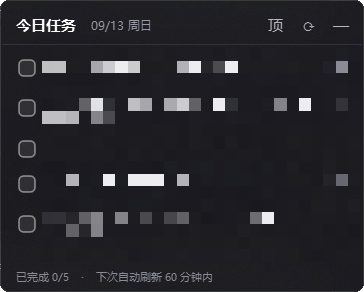
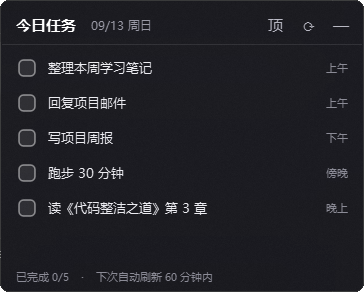
docs: 补齐全部效果图，改用演示数据拍摄
- widget.png / sync.gif：原先那张是打码版，观感差且看不出内容。
  改为在 Notion 临时测试库里放入五条假任务，让挂件的隔离实例指向它再拍，
  内容可读且不含任何真实日程。拍完已将该库归档。
- zorder-compare.png：左右对比「顶」浮在其他窗口之上 / 「桌」被其他窗口盖住。
- tray-menu.png：Qt 渲染的菜单控件，非屏幕截图。本机托盘图标默认收在隐藏
  溢出区，反复试探托盘区域会持续把桌面私有内容截入画面。
- README 去掉「截图待补」的提示，改为注明截图为演示数据。

diff --git a/docs/images/README.md b/docs/images/README.md
@@ -1,35 +1,33 @@
-# 截图待补清单
+# 效果图说明
 
-README 引用四张图。**`widget.png` 已就位**（任务文字做了打码），其余三张还没做。
+四张图都已就位。
 
-| 文件 | 状态 | 用在哪 | 要展示什么 |
-|---|---|---|---|
-| `widget.png` | ✅ 已有 | README 首图 | 挂件卡片本体。**注意：图中任务文字与右侧类型标签已做像素化打码**（原始截图含真实日程）。如果要换成未打码的版本，请先准备一批假任务再重拍 |
-| `sync.gif` | ❌ 待补 | 「效果」第 1 张 | 鼠标点某条未完成任务的勾选框 → 勾选框变绿底白勾、任务名变灰并被划掉 → 底部文字从「已完成 2/5」变成「已完成 3/5 · 已同步 Notion」。3-5 秒循环 |
-| `zorder-compare.png` | ❌ 待补 | 「效果」第 2 张 | **一张左右拼接的对比图**：左边按 Win+D 显示桌面后挂件仍浮在最上层（标题栏按钮显示「顶」）；右边挂件被文件资源管理器窗口压住看不见（按钮显示「桌」） |
-| `tray-menu.png` | ❌ 待补 | 「效果」第 3 张 | 右键点击任务栏通知区域里托盘的绿色对勾图标后弹出的菜单：`开机自启`（带勾）、`显示/隐藏`、`立即刷新`、`退出` |
+| 文件 | 尺寸 | 展示什么 |
+|---|---|---|
+| `widget.png` | 364×292 | 挂件本体。标题栏「今日任务 09/13 周日」+「顶/⟳/—」三个按钮，五条任务，底部状态栏 |
+| `sync.gif` | 364×292，3 帧 | 点勾选框 → 勾选框立刻变绿划线（乐观更新，此时底部还是「已完成 0/5」）→ 约 1 秒后底部变成「已完成 1/5 · 已同步 Notion」 |
+| `zorder-compare.png` | 1144×430 | 左右对比。「顶」模式挂件浮在「其他窗口」之上；「桌」模式被该窗口完全盖住 |
+| `tray-menu.png` | 221×294 | 托盘右键菜单：开机自启（带勾）、显示/隐藏、立即刷新、退出 |
 
-## 为什么需要这三张
+## 这些图怎么来的
 
-- `sync.gif` 证明「勾选真的会同步回 Notion」——静态图证明不了这件事，只有动图能。
-- `zorder-compare.png` 说明标题栏那个「顶 / 桌」按钮切换的到底是什么——这个差异光读代码看不出来。
-- `tray-menu.png` 展示程序除主窗口外的入口，尤其是「开机自启」这个开关。
+所有图都用**演示数据**拍摄，不含真实日程。做法是在 Notion 里临时建了一个测试库，塞入五条假任务（整理本周学习笔记、回复项目邮件、写项目周报、跑步 30 分钟、读《代码整洁之道》第 3 章），让挂件的一个隔离实例指向它。拍完已把该库归档删除。
 
-## 录制注意
+- **不碰真实数据**：整个过程没有读写「周计划」库里的任何一条记录。
+- **不碰本机配置**：隔离实例跑在临时目录里，用的是那份目录下的配置副本，项目里的 `config.json` 未被修改。
+- **背景不透出**：拍摄时把 `acrylic_color` 的 alpha 从 `E6`（90%）改成 `FF`（不透明），这样桌面布局和壁纸不会被截进去。
 
-- **必须用测试数据**。截图/录屏前把 Notion 里的任务换一批假的，或事后打码。
-- **`config.json` 绝不能入镜**。它含明文令牌；截图前关掉编辑器里打开该文件的窗口。
-- 壁纸建议用中性图片；或者把挂件拖到一块纯色窗口上方再截，避免带出桌面布局。
-- 首图建议用**不透明**底色截（`config.json` 里 `acrylic_color` 的 alpha 从 `E6` 改到 `FF`），这样背景不会透出来。
-- GIF 控制在 2MB 以内，GitHub 上加载才顺畅。
+另外：
 
-## `widget.png` 是怎么来的
+- `sync.gif` 是**真实点击、真实同步**。点击位置由脚本计算后发送鼠标事件，同步是真的写到了那个测试库。
+- `tray-menu.png` 与其他三张不同：**它不是屏幕截图，而是用 Qt 渲染的菜单控件**。因为本机托盘图标默认收在隐藏溢出区，反复试探托盘区域会不断把桌面私有内容截进来。这张图的菜单项文字、顺序、分隔线、勾选状态都逐行取自 `notion_widget.py` 的 `main()`，是同一个 `QMenu` 类的真实渲染结果，只是没有桌面背景。
+- 拍摄脚本用完即删，临时目录里含令牌的配置副本也已清除。
 
-用一个隔离实例拍的（不依赖你正在用的那份配置）：
+## 要重拍的话
 
-1. 临时目录里放一份 `notion_widget.py` + 一份把 `acrylic_color` 改成 `0xFF1A1A20`（不透明）的配置——避免背景透出桌面布局；
-2. 启动后等任务加载完，截取挂件所在矩形；
-3. 对任务文字与类型标签区域做像素化，保留勾选框、标题栏、底部状态栏；
-4. 裁成 364×292 并加 8px 圆角透明遮罩（去掉圆角外的桌面像素）。
+- `widget.png` / `sync.gif`：需要先有一个装有假任务的数据库，再按上面的隔离实例方式拍。
+- `zorder-compare.png`：遮挡窗口用一个纯色窗口即可（脚本里那个是 564×384 的深灰面板）。
+- `tray-menu.png`：直接渲染菜单即可，不必去动托盘。
+- 首图建议保持不透明底色；半透明会把壁纸和桌面布局带进画面。
 
-要重拍就在仓库根目录跑类似流程；注意重拍版本同样要打码。
+GIF 控制在 2MB 以内（当前 52 KB），GitHub 上加载才顺畅。

diff --git a/README.md b/README.md
@@ -23,17 +23,16 @@
 
 ![勾选同步演示](docs/images/sync.gif)
 
-**层级可切换**（「顶」= 悬浮置顶，Win+D 不消失；「桌」= 只在桌面层，不挡工作窗口）
+**层级可切换**（「顶」= 悬浮置顶，浮在其他窗口之上；「桌」= 只在桌面层，被其他窗口盖住）
 
 ![层级对比](docs/images/zorder-compare.png)
 
-**托盘常驻**
+**托盘常驻**（右键托盘图标，含「开机自启」开关）
 
 ![托盘菜单](docs/images/tray-menu.png)
 
-> [!IMPORTANT]
-> 上面三张图目前是占位路径，仓库里还没有实际截图。需要补的图见 [`docs/images/README.md`](docs/images/README.md)。
-> 首图（`widget.png`）是别人判断要不要点进来的关键，建议优先补。
+> [!NOTE]
+> 截图里的任务（整理本周学习笔记、写项目周报等）是**演示数据**，不是作者的真实日程。界面元素均为真实运行效果。
 
 ## 快速开始
 
